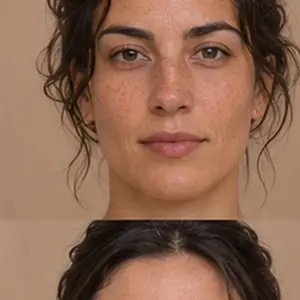
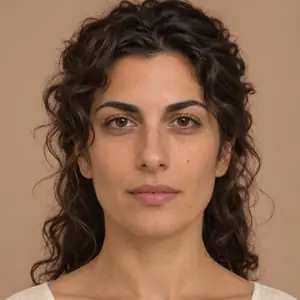
Añade busto y corrige retratos de origen

diff --git a/data/domains/woman.js b/data/domains/woman.js
@@ -104,25 +104,25 @@ const domain = {
       "note": "Solo para personajes adultos.",
       "mode": "single",
       "options": [
-        {"id":"small-bust","es":"Pequeño","en":"small bust","tags":["adult-only"]},
-        {"id":"medium-bust","es":"Mediano","en":"medium bust","tags":["adult-only"]},
-        {"id":"large-bust","es":"Grande","en":"large bust","tags":["adult-only"]},
-        {"id":"voluptuous-full-bust","es":"Busto generoso","en":"voluptuous full bust","tags":["adult-only"]},
-        {"id":"natural-looking-bust","es":"Natural","en":"natural-looking bust","tags":["adult-only"]},
-        {"id":"firm-perky-bust","es":"Firme y elevado","en":"firm perky bust","tags":["adult-only"]},
-        {"id":"a-cup-bust","es":"Copa A","en":"A-cup bust","tags":["adult-only"]},
-        {"id":"b-cup-bust","es":"Copa B","en":"B-cup bust","tags":["adult-only"]},
-        {"id":"c-cup-bust","es":"Copa C","en":"C-cup bust","tags":["adult-only"]},
-        {"id":"d-cup-bust","es":"Copa D","en":"D-cup bust","tags":["adult-only"]},
-        {"id":"full-dd-cup-bust","es":"Copa DD","en":"full DD-cup bust","tags":["adult-only"]},
-        {"id":"small-athletic-chest","es":"Atlético plano","en":"small athletic chest","tags":["adult-only"]},
-        {"id":"e-cup-bust","es":"Copa E","en":"E-cup bust","tags":["adult-only"]},
-        {"id":"full-f-cup-bust","es":"Copa F","en":"full F-cup bust","tags":["adult-only"]},
-        {"id":"small-perky-bust","es":"Pequeño y respingón","en":"small perky bust","tags":["adult-only"]},
-        {"id":"natural-asymmetric-bust","es":"Asimétrico natural","en":"natural asymmetric bust","tags":["adult-only"]},
-        {"id":"natural-soft-bust","es":"Suave natural","en":"natural soft bust","tags":["adult-only"]},
-        {"id":"wide-set-bust","es":"Separado","en":"wide-set bust","tags":["adult-only"]},
-        {"id":"prominent-cleavage","es":"Escote marcado","en":"prominent cleavage","tags":["adult-only"]}
+        {"id":"small-bust","es":"Pequeño","en":"small bust","thumb":"/imagenes/cuerpo/pecho/pequeno.webp","tags":["adult-only"]},
+        {"id":"medium-bust","es":"Mediano","en":"medium bust","thumb":"/imagenes/cuerpo/pecho/mediano.webp","tags":["adult-only"]},
+        {"id":"large-bust","es":"Grande","en":"large bust","thumb":"/imagenes/cuerpo/pecho/grande.webp","tags":["adult-only"]},
+        {"id":"voluptuous-full-bust","es":"Busto generoso","en":"voluptuous full bust","thumb":"/imagenes/cuerpo/pecho/busto-generoso.webp","tags":["adult-only"]},
+        {"id":"natural-looking-bust","es":"Natural","en":"natural-looking bust","thumb":"/imagenes/cuerpo/pecho/natural.webp","tags":["adult-only"]},
+        {"id":"firm-perky-bust","es":"Firme y elevado","en":"firm perky bust","thumb":"/imagenes/cuerpo/pecho/firme-y-elevado.webp","tags":["adult-only"]},
+        {"id":"a-cup-bust","es":"Copa A","en":"A-cup bust","thumb":"/imagenes/cuerpo/pecho/copa-a.webp","tags":["adult-only"]},
+        {"id":"b-cup-bust","es":"Copa B","en":"B-cup bust","thumb":"/imagenes/cuerpo/pecho/copa-b.webp","tags":["adult-only"]},
+        {"id":"c-cup-bust","es":"Copa C","en":"C-cup bust","thumb":"/imagenes/cuerpo/pecho/copa-c.webp","tags":["adult-only"]},
+        {"id":"d-cup-bust","es":"Copa D","en":"D-cup bust","thumb":"/imagenes/cuerpo/pecho/copa-d.webp","tags":["adult-only"]},
+        {"id":"full-dd-cup-bust","es":"Copa DD","en":"full DD-cup bust","thumb":"/imagenes/cuerpo/pecho/copa-dd.webp","tags":["adult-only"]},
+        {"id":"small-athletic-chest","es":"Atlético plano","en":"small athletic chest","thumb":"/imagenes/cuerpo/pecho/atletico-plano.webp","tags":["adult-only"]},
+        {"id":"e-cup-bust","es":"Copa E","en":"E-cup bust","thumb":"/imagenes/cuerpo/pecho/copa-e.webp","tags":["adult-only"]},
+        {"id":"full-f-cup-bust","es":"Copa F","en":"full F-cup bust","thumb":"/imagenes/cuerpo/pecho/copa-f.webp","tags":["adult-only"]},
+        {"id":"small-perky-bust","es":"Pequeño y respingón","en":"small perky bust","thumb":"/imagenes/cuerpo/pecho/pequeno-y-respingon.webp","tags":["adult-only"]},
+        {"id":"natural-asymmetric-bust","es":"Asimétrico natural","en":"natural asymmetric bust","thumb":"/imagenes/cuerpo/pecho/asimetrico-natural.webp","tags":["adult-only"]},
+        {"id":"natural-soft-bust","es":"Suave natural","en":"natural soft bust","thumb":"/imagenes/cuerpo/pecho/suave-natural.webp","tags":["adult-only"]},
+        {"id":"wide-set-bust","es":"Separado","en":"wide-set bust","thumb":"/imagenes/cuerpo/pecho/separado.webp","tags":["adult-only"]},
+        {"id":"prominent-cleavage","es":"Escote marcado","en":"prominent cleavage","thumb":"/imagenes/cuerpo/pecho/escote-marcado.webp","tags":["adult-only"]}
       ]
     },
     {

diff --git a/docs/ADDING-CONTENT.md b/docs/ADDING-CONTENT.md
@@ -69,7 +69,7 @@ Las opciones pueden llevar `"thumb"` con la ruta a una imagen; la tarjeta se pin
 
 **Convención para todas las nuevas miniaturas del proyecto:** WebP de **300 × 400 píxeles**, calidad **70**, sin texto incrustado y con el sujeto completo dentro del encuadre. Guardar en `/imagenes/<categoria>/<grupo>/<opcion>.webp`, usando nombres descriptivos en español, minúsculas, sin tildes ni espacios y separados por guiones. Ejemplo: `/imagenes/peinados/suelto/suelto-natural.webp`. La ruta se asigna explícitamente en `thumb`: no cambiar los identificadores existentes ni los textos del prompt. Reutilizar el mismo archivo cuando varias elecciones representen la misma muestra. Las imágenes se cargan bajo demanda con `loading="lazy"`.
 
-Las miniaturas cuadradas de **300 × 300 píxeles**, calidad **70**, también se usan en los selectores de rostro, apariencia, complexión, longitud y textura de pelo, flequillo, raya, color de pelo, maquillaje, color/acabado de labios y expresión/emoción de `data/domains/woman.js`. Las imágenes de forma de labios ya se encuentran en `/imagenes/rostro/labios/`.
+Las miniaturas cuadradas de **300 × 300 píxeles**, calidad **70**, también se usan en los selectores de rostro, apariencia, complexión, busto, longitud y textura de pelo, flequillo, raya, color de pelo, maquillaje, color/acabado de labios y expresión/emoción de `data/domains/woman.js`. Las imágenes de forma de labios ya se encuentran en `/imagenes/rostro/labios/`.
 
 Para preparar una nueva miniatura desde una imagen individual: `python scripts/images/miniatura.py origen.png imagenes/categoria/grupo/opcion.webp` (requiere Pillow). El script mantiene la proporción sin recortar el sujeto y exporta siempre el mismo tamaño y calidad.
 
